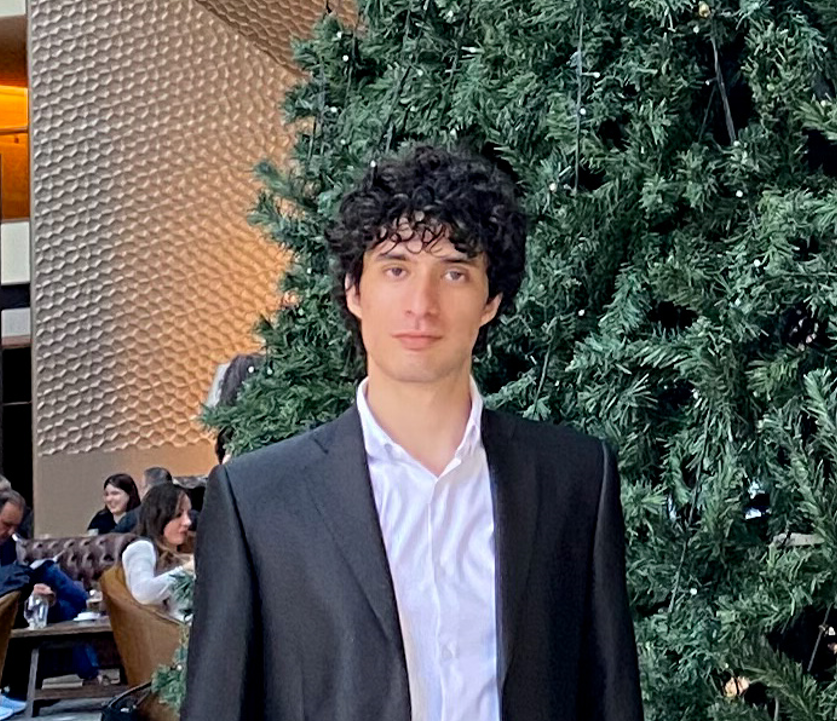
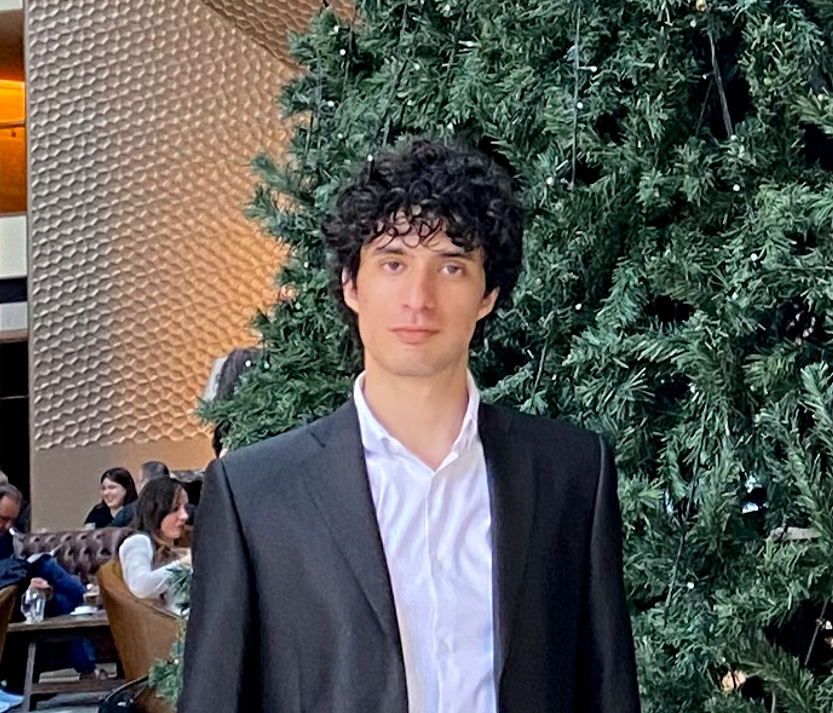
feat(running): implement interactive image gallery, distance tags, and lazy loading
- Create RaceImageGallery component with framer-motion for full-screen view
- Map uploaded real photos to their corresponding races
- Add dynamic distance tags (42k, 21k, 15k, 10k) with golden glow effect for marathons
- Enforce lazy loading and 'Agustin Diaz-Cano' alt text for SEO across all images
- Add og:image:alt and twitter:image:alt to SEO meta tags
- Update user guidelines (CLAUDE.md and GEMINI.md) on image optimization and emojis

diff --git a/src/components/RaceImageGallery.jsx b/src/components/RaceImageGallery.jsx
@@ -1,0 +1,94 @@
+import React, { useState, useEffect } from 'react';
+import { motion, AnimatePresence } from 'framer-motion';
+
+const RaceImageGallery = ({ images, title }) => {
+    const [isOpen, setIsOpen] = useState(false);
+
+    // Prevent body scroll when modal is open
+    useEffect(() => {
+        if (isOpen) {
+            document.body.style.overflow = 'hidden';
+        } else {
+            document.body.style.overflow = 'unset';
+        }
+        return () => {
+            document.body.style.overflow = 'unset';
+        };
+    }, [isOpen]);
+
+    if (!images || images.length === 0) return null;
+
+    return (
+        <>
+            {/* Thumbnail */}
+            <div 
+                className="w-full md:w-64 shrink-0 rounded-xl overflow-hidden border border-[#222] bg-[#111] cursor-pointer group"
+                onClick={() => setIsOpen(true)}
+            >
+                <div className="relative w-full h-full aspect-video md:aspect-square">
+                    <img 
+                        src={images[0]} 
+                        alt={`Agustin Diaz-Cano - ${title}`} 
+                        loading="lazy"
+                        className="w-full h-full object-cover opacity-90 group-hover:opacity-100 transition-opacity duration-300" 
+                    />
+                    {images.length > 1 && (
+                        <div className="absolute bottom-2 right-2 bg-black/70 backdrop-blur-sm px-2 py-1 rounded-md text-xs text-white font-mono border border-white/10 flex items-center gap-1.5">
+                            <svg xmlns="http://www.w3.org/2000/svg" width="12" height="12" viewBox="0 0 24 24" fill="none" stroke="currentColor" strokeWidth="2" strokeLinecap="round" strokeLinejoin="round"><rect width="18" height="18" x="3" y="3" rx="2" ry="2"/><circle cx="9" cy="9" r="2"/><path d="m21 15-3.086-3.086a2 2 0 0 0-2.828 0L6 21"/></svg>
+                            +{images.length - 1} photos
+                        </div>
+                    )}
+                </div>
+            </div>
+
+            {/* Modal */}
+            <AnimatePresence>
+                {isOpen && (
+                    <div className="fixed inset-0 z-50 flex items-center justify-center p-4 md:p-8">
+                        <motion.div
+                            initial={{ opacity: 0 }}
+                            animate={{ opacity: 1 }}
+                            exit={{ opacity: 0 }}
+                            onClick={() => setIsOpen(false)}
+                            className="absolute inset-0 bg-black/90 backdrop-blur-md cursor-pointer"
+                        />
+
+                        <motion.div
+                            initial={{ opacity: 0, scale: 0.95, y: 20 }}
+                            animate={{ opacity: 1, scale: 1, y: 0 }}
+                            exit={{ opacity: 0, scale: 0.95, y: 20 }}
+                            className="relative w-full max-w-5xl max-h-[90vh] bg-[#0a0a0a] border border-[#222] rounded-2xl overflow-hidden z-10 flex flex-col shadow-2xl shadow-black/50"
+                        >
+                            <div className="flex items-center justify-between p-4 border-b border-[#222] bg-[#111]">
+                                <h3 className="text-white font-semibold text-lg">{title}</h3>
+                                <button 
+                                    onClick={() => setIsOpen(false)}
+                                    className="p-2 hover:bg-[#222] rounded-full transition-colors text-[#888] hover:text-white"
+                                >
+                                    <svg xmlns="http://www.w3.org/2000/svg" width="20" height="20" viewBox="0 0 24 24" fill="none" stroke="currentColor" strokeWidth="2" strokeLinecap="round" strokeLinejoin="round"><path d="M18 6 6 18"/><path d="m6 6 18 18"/></svg>
+                                </button>
+                            </div>
+
+                            <div className="p-4 md:p-6 overflow-y-auto">
+                                <div className="grid grid-cols-1 md:grid-cols-2 gap-4">
+                                    {images.map((img, idx) => (
+                                        <div key={idx} className="rounded-xl overflow-hidden border border-[#222] bg-[#111]">
+                                            <img 
+                                                src={img} 
+                                                alt={`Agustin Diaz-Cano - ${title} - Photo ${idx + 1}`} 
+                                                loading="lazy"
+                                                className="w-full h-auto object-contain"
+                                            />
+                                        </div>
+                                    ))}
+                                </div>
+                            </div>
+                        </motion.div>
+                    </div>
+                )}
+            </AnimatePresence>
+        </>
+    );
+};
+
+export default RaceImageGallery;

diff --git a/src/components/ProjectGrid.jsx b/src/components/ProjectGrid.jsx
@@ -56,54 +56,6 @@ const ProjectGrid = () => {
             size: "large",
             stats: "Thesis Phase",
             features: ["Evolutionary strategies", "Distributed computing", "Mathematical modeling"]
-        },
-        {
-            id: 5,
-            title: "Distributed Task Queue",
-            slug: "task-queue",
-            subtitle: "Backend Infrastructure",
-            description: "Go-based distributed queue.",
-            longDescription: "A scalable, persistent task queue built for high-throughput microservices, ensuring exactly-once processing guarantees.",
-            tags: ["Go", "Redis", "Kafka"],
-            size: "medium",
-            stats: "1M req/sec",
-            features: ["Exactly-once processing", "Auto-scaling workers", "Persistent state"]
-        },
-        {
-            id: 6,
-            title: "Physics Simulation Engine",
-            slug: "physics-engine",
-            subtitle: "Robotics",
-            description: "MuJoCo based physics simulator.",
-            longDescription: "A real-time robotics simulation environment designed for training reinforcement learning agents in complex continuous control tasks.",
-            tags: ["C++", "Python", "MuJoCo"],
-            size: "large",
-            stats: "1000+ FPS",
-            features: ["Rigid body dynamics", "Collision detection", "RL Gym interface"]
-        },
-        {
-            id: 7,
-            title: "Retail E-Commerce Backend",
-            slug: "ecommerce-backend",
-            subtitle: "Microservices",
-            description: "Enterprise scale Node.js backend.",
-            longDescription: "Architected and deployed a multi-tenant e-commerce backend handling inventory, payments, and distributed tracing across 12 microservices.",
-            tags: ["Node.js", "Docker", "PostgreSQL"],
-            size: "medium",
-            stats: "99.99% Uptime",
-            features: ["Event-driven architecture", "Payment gateway integration", "GraphQL API"]
-        },
-        {
-            id: 8,
-            title: "Data Mining Pipeline",
-            slug: "data-pipeline",
-            subtitle: "Big Data",
-            description: "Spark-based ETL pipeline.",
-            longDescription: "End-to-end data engineering pipeline processing terabytes of unstructured data for predictive analytics models.",
-            tags: ["Python", "PySpark", "AWS"],
-            size: "medium",
-            stats: "5TB / day",
-            features: ["Real-time streaming", "Data warehouse integration", "Anomaly detection"]
         }
     ];
 

diff --git a/CLAUDE.md b/CLAUDE.md
@@ -1,6 +1,6 @@
 # Agustin Diaz-Cano - Portfolio (`agustinweb`)
 
-## 📌 Project Description
+## Project Description
 Personal website and portfolio of **Agustin Diaz-Cano**, Software Engineer and MSc Candidate.
 
 - **Production URL**: [agustindiazcano.com](https://www.agustindiazcano.com)
@@ -8,7 +8,7 @@ Personal website and portfolio of **Agustin Diaz-Cano**, Software Engineer and M
 
 ---
 
-## 🛠 Tech Stack
+## Tech Stack
 
 - **Framework**: [Astro 5](https://astro.build/) (SSG / SSR)
 - **Interactive Components**: React 19 (`@astrojs/react`)
@@ -19,7 +19,7 @@ Personal website and portfolio of **Agustin Diaz-Cano**, Software Engineer and M
 
 ---
 
-## 📂 Project Structure
+## Project Structure
 
 ```text
 /
@@ -43,7 +43,7 @@ Personal website and portfolio of **Agustin Diaz-Cano**, Software Engineer and M
 
 ---
 
-## 💻 Development Commands
+## Development Commands
 
 - `npm run dev` - Starts the local development server (default port: `http://localhost:4321`)
 - `npm run build` - Generates production build in `./dist/`
@@ -51,7 +51,7 @@ Personal website and portfolio of **Agustin Diaz-Cano**, Software Engineer and M
 
 ---
 
-## 🎯 Assistant Guidelines & Instructions
+## Assistant Guidelines & Instructions
 
 1. **Language & Communication**:
    - Always communicate, explain, and reply in **English**.
@@ -79,3 +79,6 @@ Personal website and portfolio of **Agustin Diaz-Cano**, Software Engineer and M
 
 7. **Icons Rule**:
    - EMOJIS ARE NOT ALLOWED
+
+8. **Images Rule**:
+   - USE LAZY LOAD FOR IMAGES AND ADD ALT ATRIBUTE TO ALL IMAGES

diff --git a/GEMINI.md b/GEMINI.md
@@ -1,6 +1,6 @@
 # Agustin Diaz-Cano - Portfolio (`agustinweb`)
 
-## 📌 Project Description
+## Project Description
 Personal website and portfolio of **Agustin Diaz-Cano**, Software Engineer and MSc Candidate.
 
 - **Production URL**: [agustindiazcano.com](https://www.agustindiazcano.com)
@@ -8,7 +8,7 @@ Personal website and portfolio of **Agustin Diaz-Cano**, Software Engineer and M
 
 ---
 
-## 🛠 Tech Stack
+## Tech Stack
 
 - **Framework**: [Astro 5](https://astro.build/) (SSG / SSR)
 - **Interactive Components**: React 19 (`@astrojs/react`)
@@ -19,7 +19,7 @@ Personal website and portfolio of **Agustin Diaz-Cano**, Software Engineer and M
 
 ---
 
-## 📂 Project Structure
+## Project Structure
 
 ```text
 /
@@ -43,7 +43,7 @@ Personal website and portfolio of **Agustin Diaz-Cano**, Software Engineer and M
 
 ---
 
-## 💻 Development Commands
+## Development Commands
 
 - `npm run dev` - Starts the local development server (default port: `http://localhost:4321`)
 - `npm run build` - Generates production build in `./dist/`
@@ -51,7 +51,7 @@ Personal website and portfolio of **Agustin Diaz-Cano**, Software Engineer and M
 
 ---
 
-## 🎯 Assistant Guidelines & Instructions
+## Assistant Guidelines & Instructions
 
 1. **Language & Communication**:
    - Always communicate, explain, and reply in **English**.
@@ -79,3 +79,6 @@ Personal website and portfolio of **Agustin Diaz-Cano**, Software Engineer and M
 
 7. **Icons Rule**:
    - EMOJIS ARE NOT ALLOWED
+
+8. **Images Rule**:
+   - USE LAZY LOAD FOR IMAGES AND ADD ALT ATRIBUTE TO ALL IMAGES
